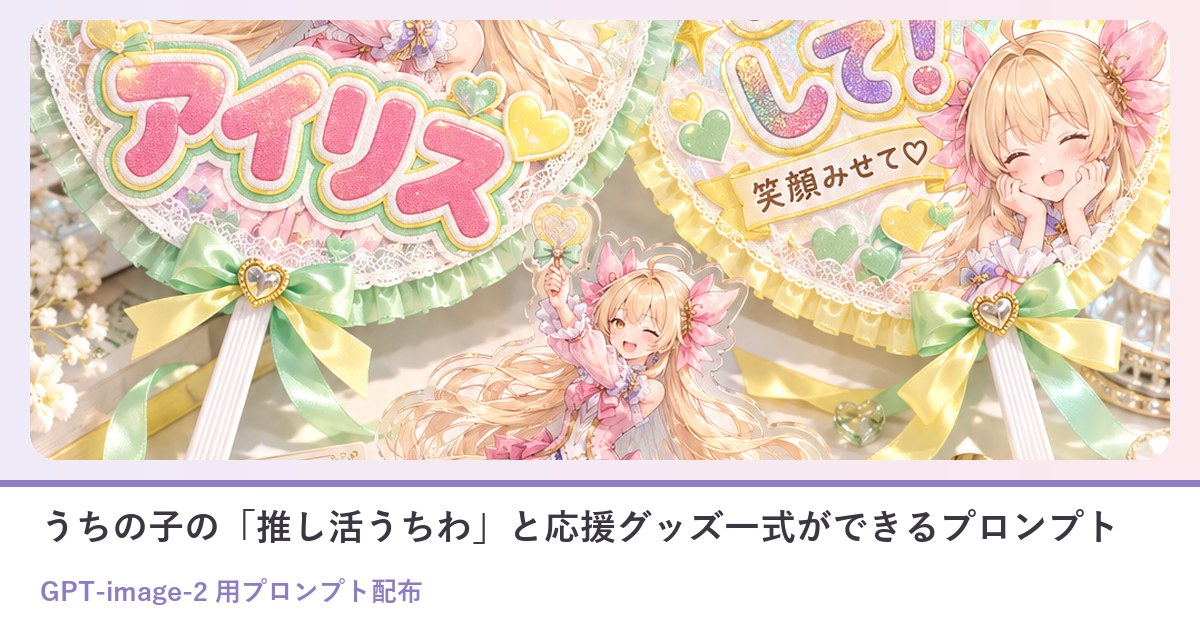
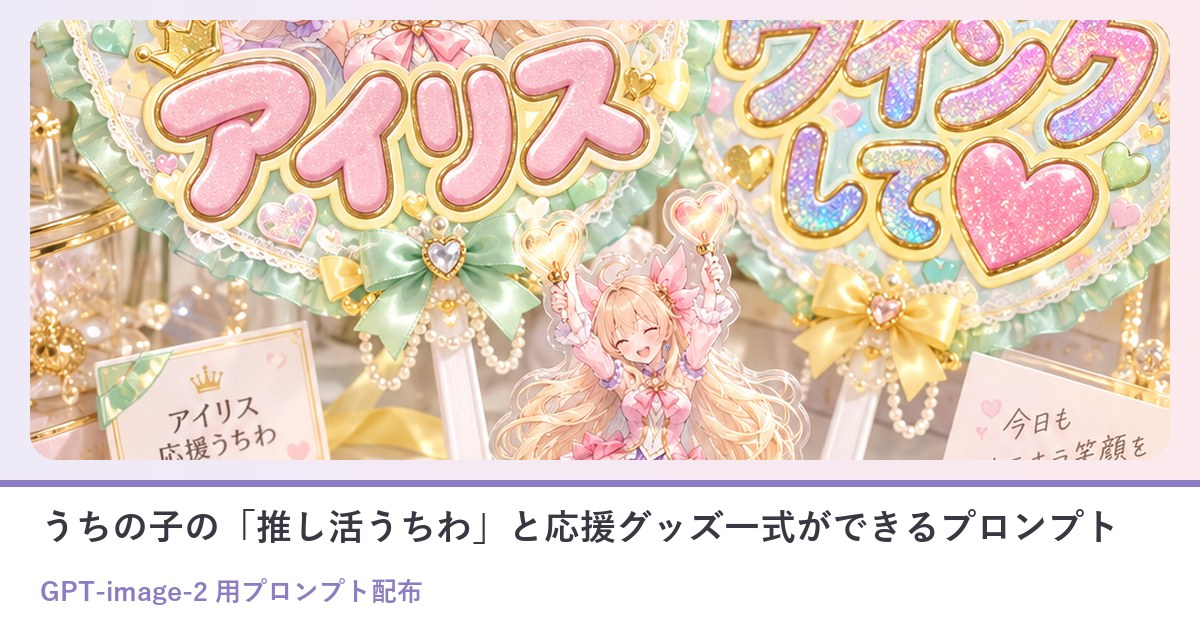
配布 10/11 推し活うちわ 作例を焼き直し（指破綻）・文を新しい絵に合わせた

diff --git a/prompts/2026-10-11-gpt-n2927ih5.html b/prompts/2026-10-11-gpt-n2927ih5.html
@@ -45,7 +45,7 @@
 @media(max-width:560px){.ps-ba{grid-template-columns:1fr}.ps-ba .arr{transform:rotate(90deg);text-align:center}.ps-vars,.ps-vars tbody,.ps-vars tr,.ps-vars th,.ps-vars td{display:block;width:auto;white-space:normal}.ps-vars tr:first-child{display:none}.ps-vars tr{border-bottom:1px solid var(--ps-line);padding:4px 0}.ps-vars th,.ps-vars td{border:0;padding:6px 12px}}
 .ps{overflow-wrap:anywhere}.ps-vars td,.ps-vars th{overflow-wrap:anywhere}.ps img{max-width:100%}
 </style><!--ps-meta {"date": "2026-10-11", "title": "うちの子の「推し活うちわ」と応援グッズ一式ができるプロンプト", "kind": "gpt", "nsfw": false, "summary": "キャラの絵と名前を入れるだけで、その子を推すためのうちわ・ペンライト・アクスタ・缶バッジの応援グッズ一式に。うちわの言葉もグッズの名前も、AIが考えてくれます。", "thumb": "img/2026-10-11-gpt-n2927ih5/ex1.webp"}-->
-</head><body class="decor-page decor-bubble"><div class="page-decor" aria-hidden="true"><div class="decor-layer decor-bubble-layer"><i></i><i></i><i></i><i></i><i></i><i></i><i></i><i></i><i></i><i></i><i></i><i></i></div></div><header class="site-header"><div class="container"><a class="brand" href="../index.html"><span class="brand-script">Lupinus</span><span class="brand-sub">AI Bloom Sisters</span></a><button class="menu-toggle" aria-label="menu" onclick="document.getElementById('nav').classList.toggle('open')">≡</button><nav class="nav" id="nav"><a href="../index.html">Home</a><a href="../about.html">About</a><a href="../portfolio.html">Portfolio</a><a href="../gallery.html">Gallery</a><a href="../blog/index.html" class="active">Blog</a><a href="../sns.html">SNS</a><a href="../coming-soon.html">Contact</a></nav></div></header><main class="article"><header class="article-header"><div class="date">2026-10-11<span class="day-chip">プロンプト配布</span></div><h1>うちの子の「推し活うちわ」と応援グッズ一式ができるプロンプト</h1></header><div class="article-body"><div class="ps"><p><span class="ps-badge">GPT-image-2 用</span><span class="ps-badge">2026-10-11</span></p><p class="ps-lead">ChatGPT（GPT-image-2）に自分のキャラの絵を1枚渡して、この文を貼るだけ。名前入りのハート形のうちわ、ファンサをお願いするうちわ、ペンライト、ウインクするアクスタ、表情ちがいの缶バッジ、ステッカーまで、うちの子の応援グッズ一式を机に並べた写真ができあがります。うちわの言葉とグッズの名前は、AIがキャラを読み取って考えてくれます。名前のほかは空欄でもOK。色・服・背景・ポーズを変えたいときは、その欄に書くだけです。</p><nav class="ps-toc" aria-label="目次"><p>📑 目次</p><ol><li><a href="#sec1">作例</a></li><li><a href="#sec2">3人のおしゃべり（推し活うちわ）</a></li><li><a href="#sec3">使い方（3ステップ）</a></li><li><a href="#sec4">プロンプト</a></li><li><a href="#sec5">書くところ</a></li><li><a href="#sec6">（おまけ）元絵を綺麗にしておくと、もっと綺麗に</a></li><li><a href="#sec7">メモ</a></li><li><a href="#sec8">配布ルール</a></li></ol></nav><h2 id="sec1">作例</h2><div class="ps-ex"><figure><img src="img/2026-10-11-gpt-n2927ih5/ex1.webp" alt="名前「アイリス」・テーマカラー「ミントグリーンとレモンイエロー」・ポーズ「うちわを両手で高く掲げて、片目をつぶっている」（服・背景は空欄）＝うちわは「ウインクして！」「笑顔みせて」、ステッカーは「アイリスしか勝たん」「キラふわアイリス」" loading="lazy"><figcaption>名前「アイリス」・テーマカラー「ミントグリーンとレモンイエロー」・ポーズ「うちわを両手で高く掲げて、片目をつぶっている」（服・背景は空欄）＝うちわは「ウインクして！」「笑顔みせて」、ステッカーは「アイリスしか勝たん」「キラふわアイリス」</figcaption></figure></div><p style="font-size:.82rem;color:var(--ps-ink)">※作例の画像の転載・保存しての再配布はご遠慮ください。</p><h2 id="sec2">3人のおしゃべり（推し活うちわ）</h2><div class="ps-chat"><img src="img/2026-10-11-gpt-n2927ih5/talk_iris_laugh.webp" alt="アイリス" loading="lazy"><div><div class="who">アイリス</div><div class="bub">見て見て！ あたしの推し活グッズ！ 「ウインクして！」のうちわに、アクスタまでウインクしてる〜！</div></div></div><div class="ps-chat r"><img src="img/2026-10-11-gpt-n2927ih5/talk_fiona_happy.webp" alt="フィオナ" loading="lazy"><div><div class="who">フィオナ</div><div class="bub">アイリスちゃんの名前入りの「しか勝たん」ステッカーまであります……。テーマカラーの欄に書いたミントとレモンの色で、ぜんぶそろっていますね</div></div></div><div class="ps-chat r"><img src="img/2026-10-11-gpt-n2927ih5/talk_lupinus_smug.webp" alt="ルピナス" loading="lazy"><div><div class="who">ルピナス</div><div class="bub">わたしのうちわは「やさしく手ふって♡」。ファンサのお願いまでAIが考えてくれるのね</div></div></div><div class="ps-chat"><img src="img/2026-10-11-gpt-n2927ih5/talk_iris_devious.webp" alt="アイリス" loading="lazy"><div><div class="who">アイリス</div><div class="bub">今日はウインクの日だし、みんなの子にもウインクしてもらお！</div></div></div><div class="ps-chat r"><img src="img/2026-10-11-gpt-n2927ih5/talk_lupinus_happy.webp" alt="ルピナス" loading="lazy"><div><div class="who">ルピナス</div><div class="bub">名前を書くだけで、その子だけの応援グッズになります。あなたの推しの子のうちわも、ぜひ見せてね</div></div></div><h2 id="sec3">使い方（3ステップ）</h2><ol class="ps-steps"><li>ChatGPT を開いて、画像を作れるモード（GPT-image-2）にする</li><li>自分のキャラの絵を1枚だけ添付する（自分の絵・使ってよい画像だけ。いつもの絵のままでOK。下の「おまけ」で元絵を作った人は元絵を）</li><li>下のプロンプトをワンタップでコピーして、いちばん上の「▼ ここに書く」の欄（色の付いたところ）にキャラの名前などを書いて送信する（名前のほかは空欄でもOK。服・背景・ポーズを変えたいときは、その欄に書くだけ）</li></ol><h2 id="sec4">プロンプト</h2><div class="ps-note" style="margin-bottom:12px"><b>書くのは「▼ ここに書く」の欄だけ</b><ul><li><mark style="background:var(--ps-soft);color:var(--ps-a);font-weight:700;border-bottom:2px dashed var(--ps-a);padding:0 4px">色の付いたところ</mark>（「：」のうしろ）に書くだけ。【 】は消さずにそのまま残してね</li><li>下の文章に出てくる【キャラの名前】などは書き換えなくてOK（AIが上の欄を読んでくれます）</li><li>任意の欄は空のままでも大丈夫（おまかせになります）</li><li>👗 <b>服・アクセサリー／背景／ポーズを変えたいときは、その欄に書くだけ</b>。欄に書いた内容が下の文章より優先されるように作ってあるので、下の文章は書き換えなくてOK。空欄なら、服とアクセサリーは添付した絵のまま、背景とポーズは下の文章のとおりになります。顔立ち・髪型・髪色・目の色は、いつも添付した絵のままです</li><li>💡 添付した絵と違う服にしたいときは、色と形まで具体的に書くと混ざりにくくなります（例：「白いニット」より「白いケーブル編みのニットと紺のプリーツスカート」）</li><li>🚫 添付する絵は<b>自分のキャラ・自分が権利を持つ画像だけ</b>。版権キャラ・他の人のキャラの画像は固く禁止です（下の「配布ルール」）</li></ul></div><div class="ps-box"><button class="ps-copy" type="button" data-target="ps-prompt">📋 ワンタップでコピー</button><p style="margin:0 0 8px;font-size:.82rem;color:var(--ps-a)">プロンプト</p><pre>添付した画像のキャラクターを読み取って、そのキャラを推すための「推し活うちわ」と応援グッズ一式を机に並べた写真を作ってください。
+</head><body class="decor-page decor-bubble"><div class="page-decor" aria-hidden="true"><div class="decor-layer decor-bubble-layer"><i></i><i></i><i></i><i></i><i></i><i></i><i></i><i></i><i></i><i></i><i></i><i></i></div></div><header class="site-header"><div class="container"><a class="brand" href="../index.html"><span class="brand-script">Lupinus</span><span class="brand-sub">AI Bloom Sisters</span></a><button class="menu-toggle" aria-label="menu" onclick="document.getElementById('nav').classList.toggle('open')">≡</button><nav class="nav" id="nav"><a href="../index.html">Home</a><a href="../about.html">About</a><a href="../portfolio.html">Portfolio</a><a href="../gallery.html">Gallery</a><a href="../blog/index.html" class="active">Blog</a><a href="../sns.html">SNS</a><a href="../coming-soon.html">Contact</a></nav></div></header><main class="article"><header class="article-header"><div class="date">2026-10-11<span class="day-chip">プロンプト配布</span></div><h1>うちの子の「推し活うちわ」と応援グッズ一式ができるプロンプト</h1></header><div class="article-body"><div class="ps"><p><span class="ps-badge">GPT-image-2 用</span><span class="ps-badge">2026-10-11</span></p><p class="ps-lead">ChatGPT（GPT-image-2）に自分のキャラの絵を1枚渡して、この文を貼るだけ。名前入りのハート形のうちわ、ファンサをお願いするうちわ、ペンライト、ウインクするアクスタ、表情ちがいの缶バッジ、ステッカーまで、うちの子の応援グッズ一式を机に並べた写真ができあがります。うちわの言葉とグッズの名前は、AIがキャラを読み取って考えてくれます。名前のほかは空欄でもOK。色・服・背景・ポーズを変えたいときは、その欄に書くだけです。</p><nav class="ps-toc" aria-label="目次"><p>📑 目次</p><ol><li><a href="#sec1">作例</a></li><li><a href="#sec2">3人のおしゃべり（推し活うちわ）</a></li><li><a href="#sec3">使い方（3ステップ）</a></li><li><a href="#sec4">プロンプト</a></li><li><a href="#sec5">書くところ</a></li><li><a href="#sec6">（おまけ）元絵を綺麗にしておくと、もっと綺麗に</a></li><li><a href="#sec7">メモ</a></li><li><a href="#sec8">配布ルール</a></li></ol></nav><h2 id="sec1">作例</h2><div class="ps-ex"><figure><img src="img/2026-10-11-gpt-n2927ih5/ex1.webp" alt="名前「アイリス」・テーマカラー「ミントグリーンとレモンイエロー」・ポーズ「うちわを両手で高く掲げて、片目をつぶっている」（服・背景は空欄）＝うちわは「アイリス」と「ウインクして♡」、札は「アイリス応援うちわ」「きらめきツインライト」、カードには「今日もキラキラ笑顔を見せてね♡」" loading="lazy"><figcaption>名前「アイリス」・テーマカラー「ミントグリーンとレモンイエロー」・ポーズ「うちわを両手で高く掲げて、片目をつぶっている」（服・背景は空欄）＝うちわは「アイリス」と「ウインクして♡」、札は「アイリス応援うちわ」「きらめきツインライト」、カードには「今日もキラキラ笑顔を見せてね♡」</figcaption></figure></div><p style="font-size:.82rem;color:var(--ps-ink)">※作例の画像の転載・保存しての再配布はご遠慮ください。</p><h2 id="sec2">3人のおしゃべり（推し活うちわ）</h2><div class="ps-chat"><img src="img/2026-10-11-gpt-n2927ih5/talk_iris_laugh.webp" alt="アイリス" loading="lazy"><div><div class="who">アイリス</div><div class="bub">見て見て！ あたしの推し活グッズ！ 「ウインクして♡」のうちわに、ペンライトも2本！ アクスタはばんざいしてる〜！</div></div></div><div class="ps-chat r"><img src="img/2026-10-11-gpt-n2927ih5/talk_fiona_happy.webp" alt="フィオナ" loading="lazy"><div><div class="who">フィオナ</div><div class="bub">アイリスちゃんの顔のハートのステッカーと、缶バッジが3種類もあります……。テーマカラーの欄に書いたミントとレモンの色で、ぜんぶそろっていますね</div></div></div><div class="ps-chat r"><img src="img/2026-10-11-gpt-n2927ih5/talk_lupinus_smug.webp" alt="ルピナス" loading="lazy"><div><div class="who">ルピナス</div><div class="bub">わたしのうちわは「やさしく手ふって♡」。ファンサのお願いまでAIが考えてくれるのね</div></div></div><div class="ps-chat"><img src="img/2026-10-11-gpt-n2927ih5/talk_iris_devious.webp" alt="アイリス" loading="lazy"><div><div class="who">アイリス</div><div class="bub">今日はウインクの日だし、みんなの子にもウインクしてもらお！</div></div></div><div class="ps-chat r"><img src="img/2026-10-11-gpt-n2927ih5/talk_lupinus_happy.webp" alt="ルピナス" loading="lazy"><div><div class="who">ルピナス</div><div class="bub">名前を書くだけで、その子だけの応援グッズになります。あなたの推しの子のうちわも、ぜひ見せてね</div></div></div><h2 id="sec3">使い方（3ステップ）</h2><ol class="ps-steps"><li>ChatGPT を開いて、画像を作れるモード（GPT-image-2）にする</li><li>自分のキャラの絵を1枚だけ添付する（自分の絵・使ってよい画像だけ。いつもの絵のままでOK。下の「おまけ」で元絵を作った人は元絵を）</li><li>下のプロンプトをワンタップでコピーして、いちばん上の「▼ ここに書く」の欄（色の付いたところ）にキャラの名前などを書いて送信する（名前のほかは空欄でもOK。服・背景・ポーズを変えたいときは、その欄に書くだけ）</li></ol><h2 id="sec4">プロンプト</h2><div class="ps-note" style="margin-bottom:12px"><b>書くのは「▼ ここに書く」の欄だけ</b><ul><li><mark style="background:var(--ps-soft);color:var(--ps-a);font-weight:700;border-bottom:2px dashed var(--ps-a);padding:0 4px">色の付いたところ</mark>（「：」のうしろ）に書くだけ。【 】は消さずにそのまま残してね</li><li>下の文章に出てくる【キャラの名前】などは書き換えなくてOK（AIが上の欄を読んでくれます）</li><li>任意の欄は空のままでも大丈夫（おまかせになります）</li><li>👗 <b>服・アクセサリー／背景／ポーズを変えたいときは、その欄に書くだけ</b>。欄に書いた内容が下の文章より優先されるように作ってあるので、下の文章は書き換えなくてOK。空欄なら、服とアクセサリーは添付した絵のまま、背景とポーズは下の文章のとおりになります。顔立ち・髪型・髪色・目の色は、いつも添付した絵のままです</li><li>💡 添付した絵と違う服にしたいときは、色と形まで具体的に書くと混ざりにくくなります（例：「白いニット」より「白いケーブル編みのニットと紺のプリーツスカート」）</li><li>🚫 添付する絵は<b>自分のキャラ・自分が権利を持つ画像だけ</b>。版権キャラ・他の人のキャラの画像は固く禁止です（下の「配布ルール」）</li></ul></div><div class="ps-box"><button class="ps-copy" type="button" data-target="ps-prompt">📋 ワンタップでコピー</button><p style="margin:0 0 8px;font-size:.82rem;color:var(--ps-a)">プロンプト</p><pre>添付した画像のキャラクターを読み取って、そのキャラを推すための「推し活うちわ」と応援グッズ一式を机に並べた写真を作ってください。
 うちわの文字、ファンサのお願いのひとこと、グッズの名前は、キャラの見た目や性格からあなたが考えて書いてください。
 
 ▼ ここに書く（「：」のうしろに書くだけ。【 】は消さずにそのまま。名前だけは必ず書く。ほかの空の欄はおまかせ）
